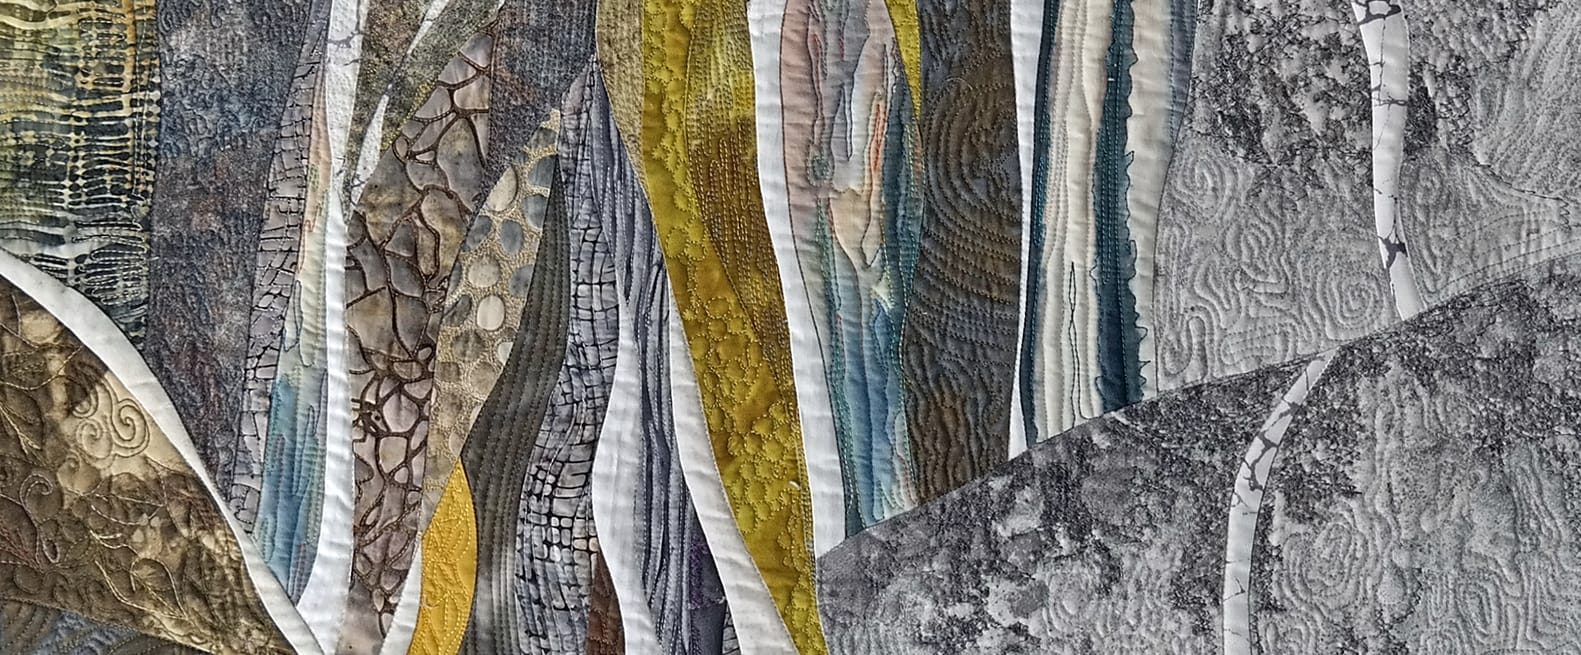
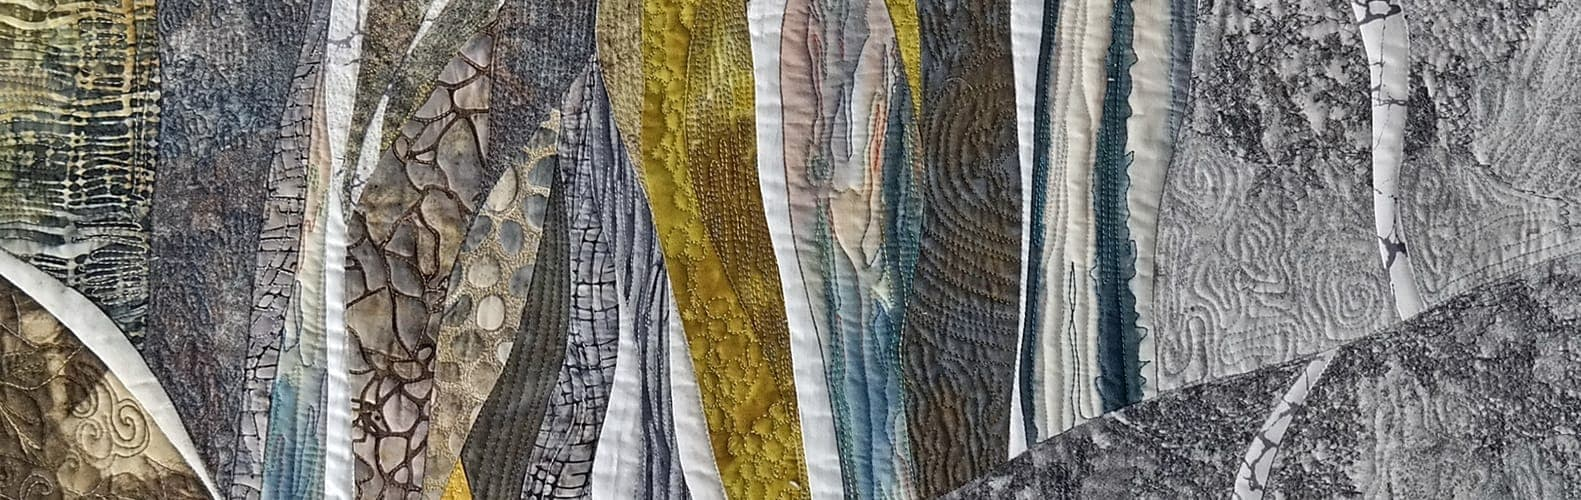
Adjust slider height

diff --git a/themes/hildemorin/static/css/style.css b/themes/hildemorin/static/css/style.css
@@ -420,7 +420,7 @@
 		background-repeat: no-repeat;
 		background-size:cover;
 		width:100%;
-		height: 615px;
+		height: 500px;
 	}
 
 	#home-carousel .item:before {
